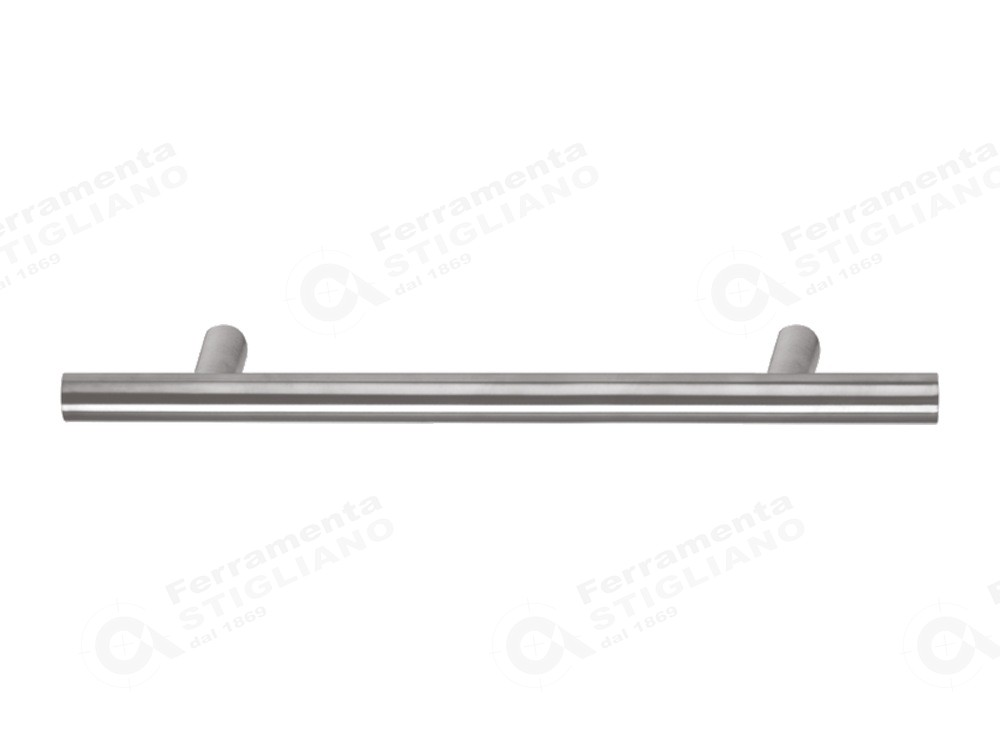
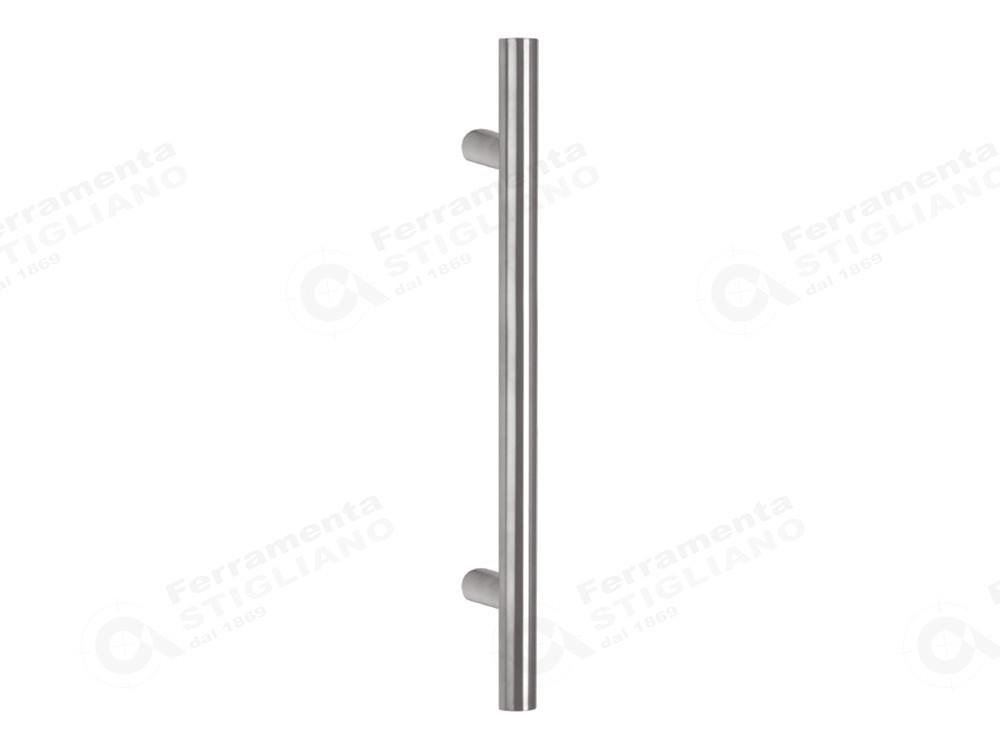
Arizona: nome senza 800 e foto del maniglione in verticale

Changed region(s): [[0.062, 0.0307, 0.961, 0.9507]]

diff --git a/src/Catalogo.jsx b/src/Catalogo.jsx
@@ -503,7 +503,7 @@ const PRODUCTS = [
     { codice: '12316088', finitura: 'Acciaio inox satinato', versione: 'Yale' },
     { codice: '12316095', finitura: 'Acciaio inox satinato', versione: 'WC senza segnalatore' },
     { codice: '12316143', finitura: 'Acciaio inox satinato', versione: 'WC con segnalatore' } ] },
-  { id: 32, categoria: '01', nome: 'Arizona 800', descrizione: 'Maniglione tubolare per porte in acciaio inox AISI 304, con supporti diritti e profilo tondo. Le finiture sono protette da una verniciatura a polvere certificata resistente ai raggi UV, quindi regge bene anche sulle porte esposte. Viene fornito con il kit di fissaggio completo: bussole, guarnizioni, grani, viti autofilettanti e tronconi filettati. Fimet progetta e produce in Italia, a Casto in provincia di Brescia. Puoi scegliere la misura indifferentemente per lunghezza totale o per interasse: selezionando una delle due, restano disponibili solo le combinazioni compatibili.', materiale: 'Acciaio inox AISI 304', sottocategoria: 'maniglioni', fornitore: 'Fimet', fornitoreLogo: fimetLogo, scheda: arizonaScheda,
+  { id: 32, categoria: '01', nome: 'Arizona', descrizione: 'Maniglione tubolare per porte in acciaio inox AISI 304, con supporti diritti e profilo tondo. Le finiture sono protette da una verniciatura a polvere certificata resistente ai raggi UV, quindi regge bene anche sulle porte esposte. Viene fornito con il kit di fissaggio completo: bussole, guarnizioni, grani, viti autofilettanti e tronconi filettati. Fimet progetta e produce in Italia, a Casto in provincia di Brescia. Puoi scegliere la misura indifferentemente per lunghezza totale o per interasse: selezionando una delle due, restano disponibili solo le combinazioni compatibili.', materiale: 'Acciaio inox AISI 304', sottocategoria: 'maniglioni', fornitore: 'Fimet', fornitoreLogo: fimetLogo, scheda: arizonaScheda,
     assi: [
       { chiave: 'diametro', etichetta: 'Diametro', suffisso: ' mm' },
       { chiave: 'lunghezza', etichetta: 'Lunghezza totale', suffisso: ' mm' },
